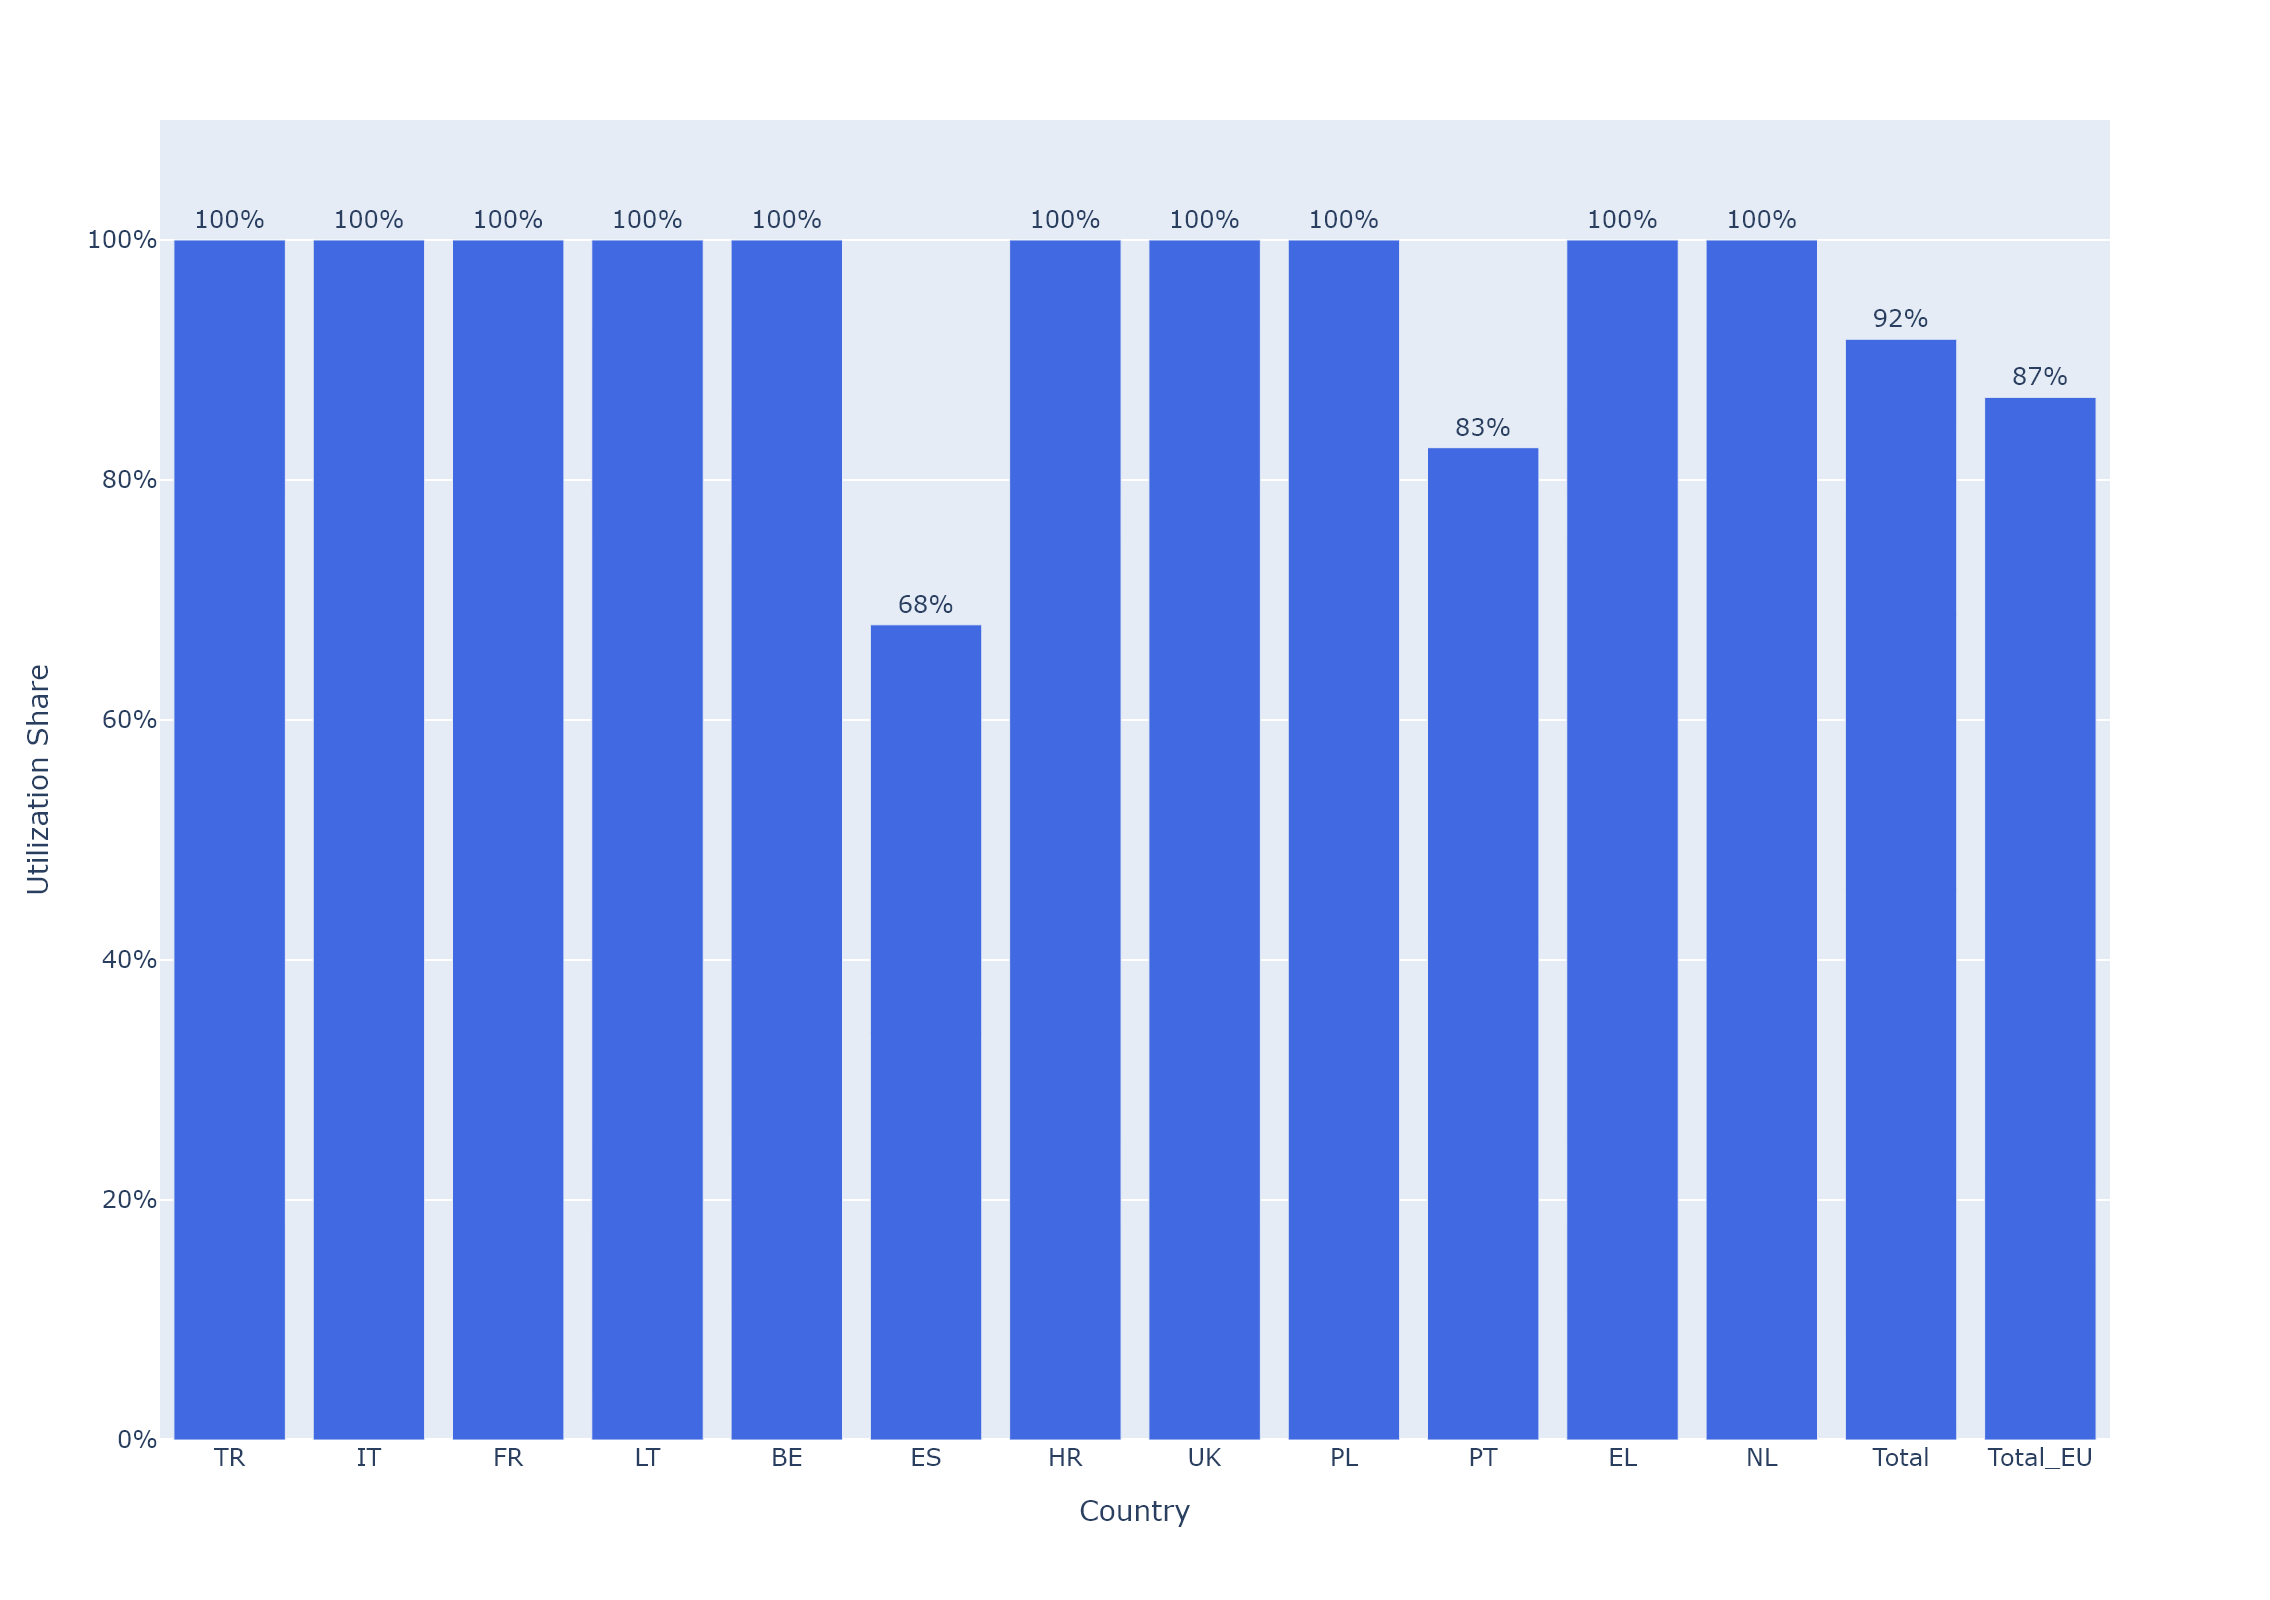
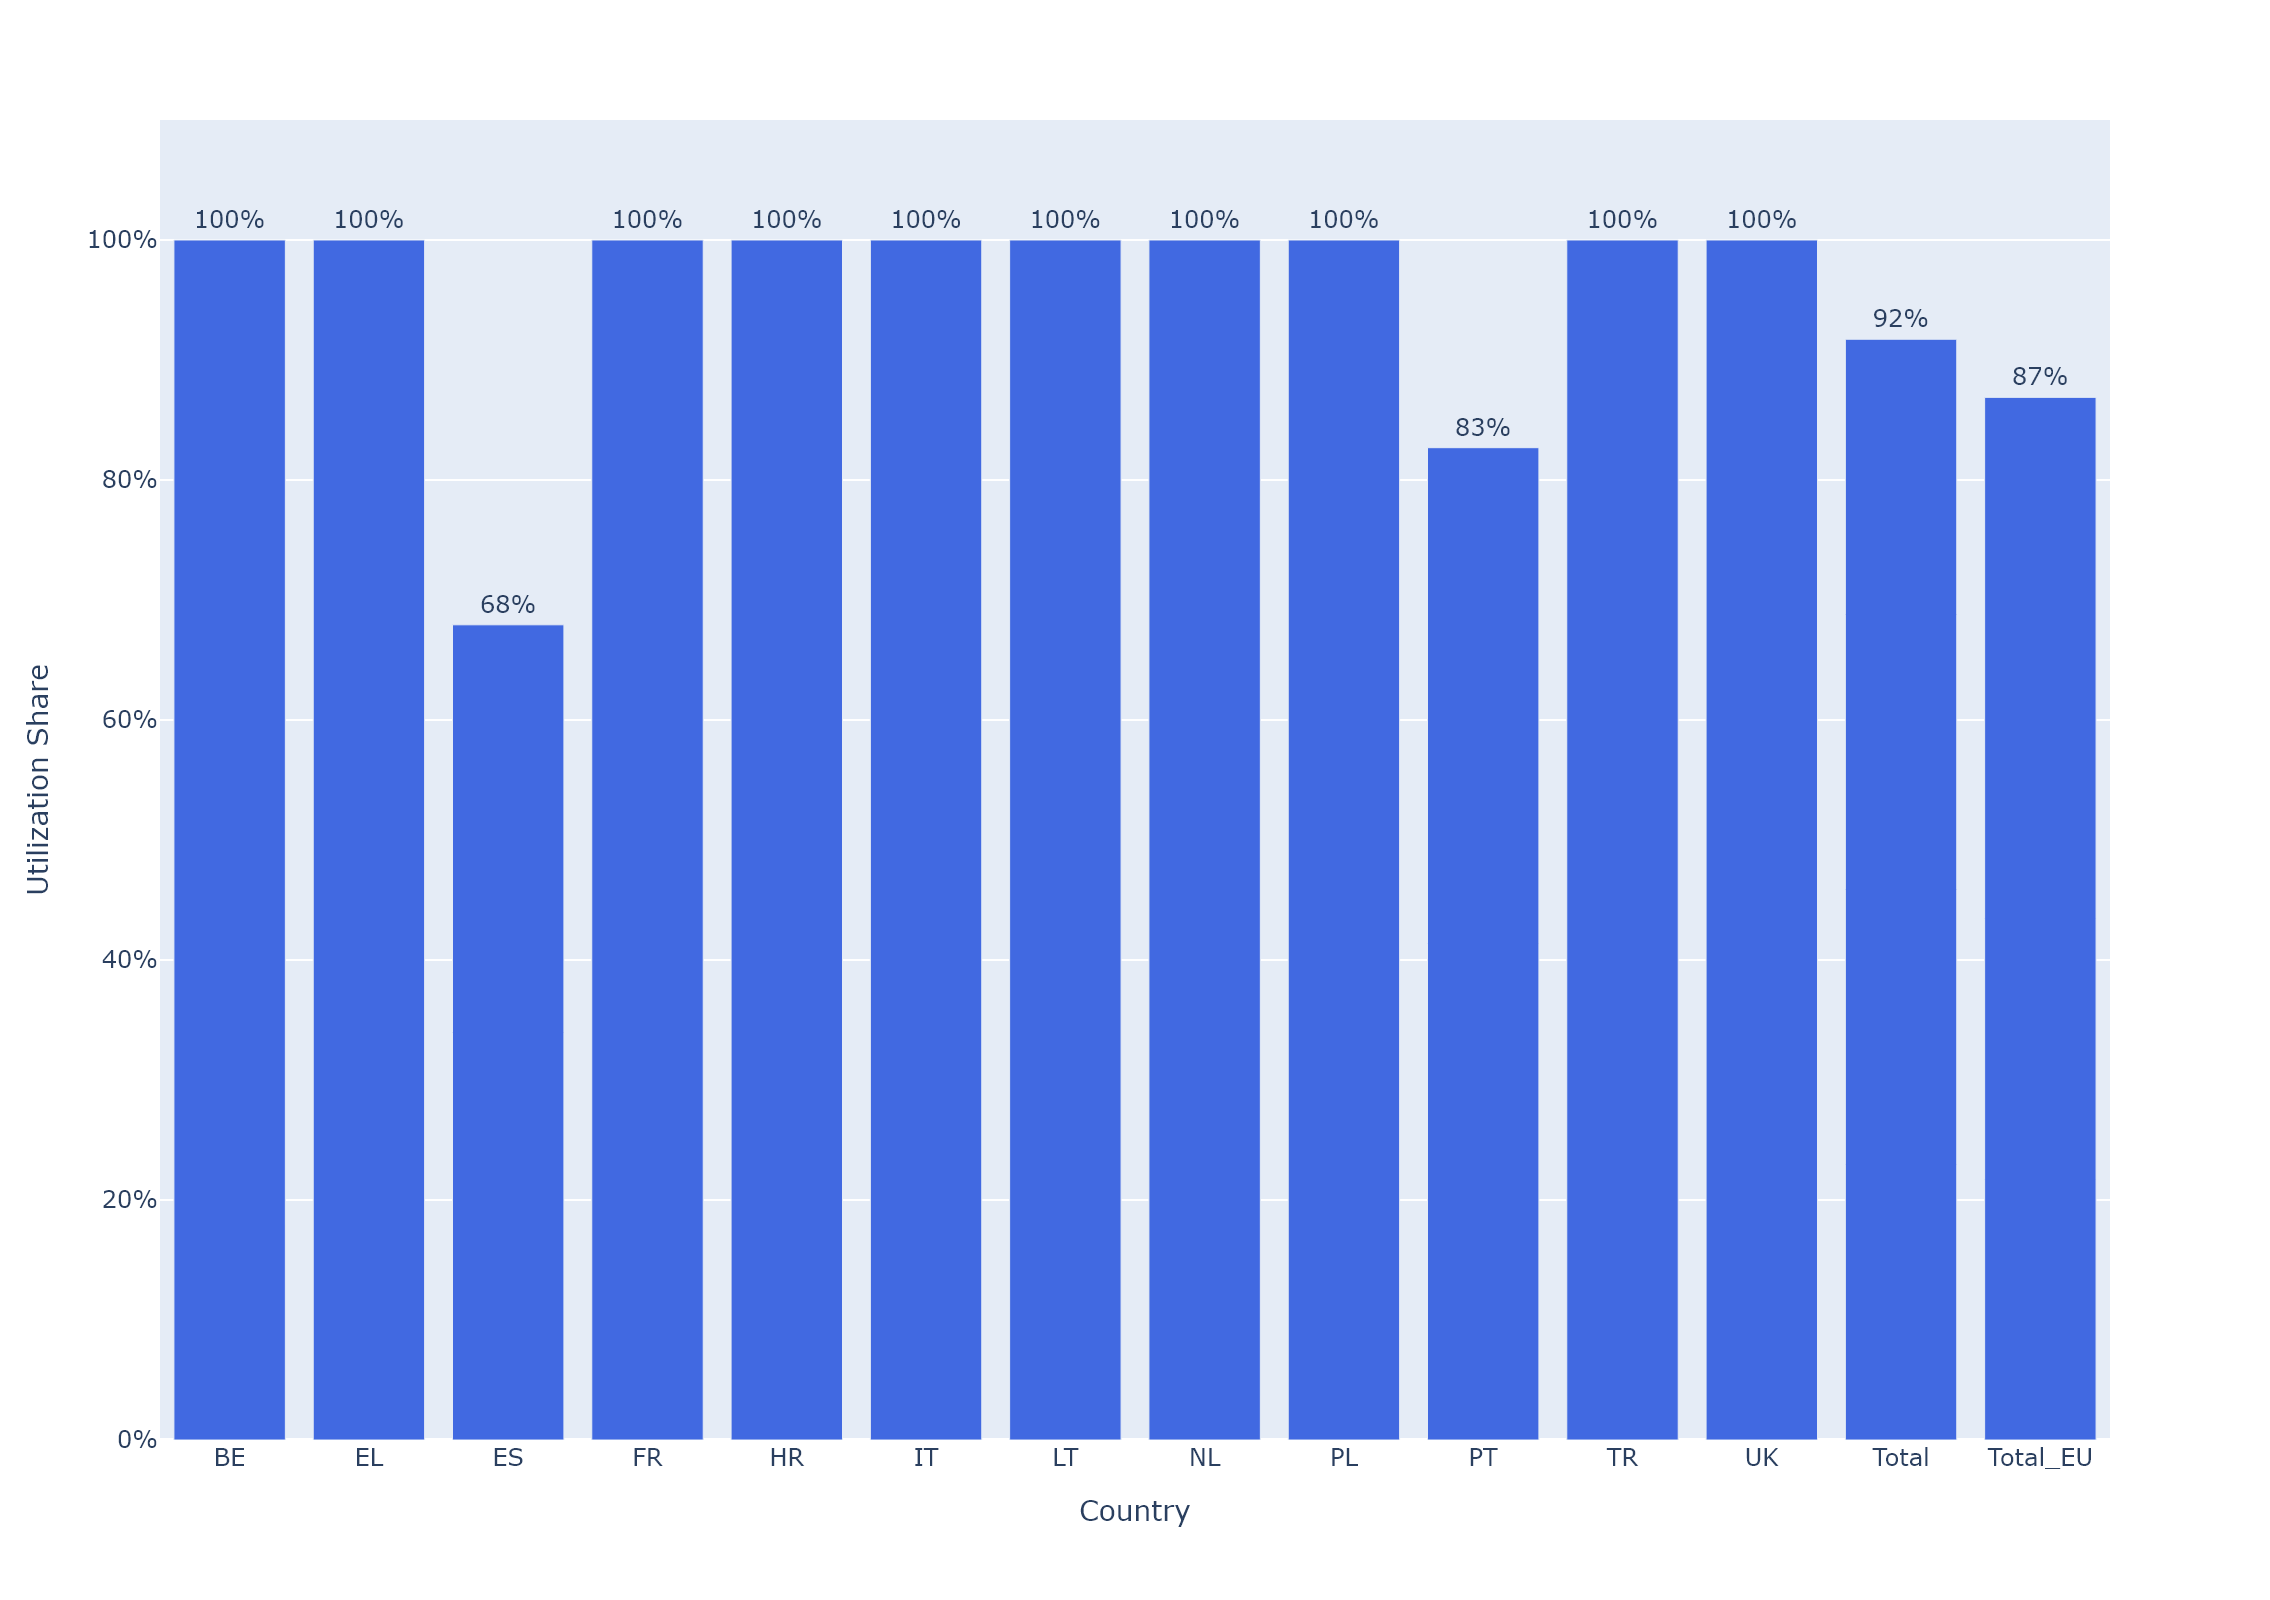
Update  for new bar charts

Changed region(s): [[0.37, 0.125, 0.4317, 0.4062], [0.185, 0.125, 0.2467, 0.4062]]

diff --git a/00_code_base/08_output_preparation/plot_visualization.py b/00_code_base/08_output_preparation/plot_visualization.py
@@ -17,11 +17,11 @@ base_path =r"C:\Users\flv.eco\OneDrive - CBS - Copenhagen Business School\Docume
 
 # Import this for save funcroin to work
 # pip install kaleido==0.1.0post1
-save_flow_no_invest = False 
+save_flow_no_invest = True 
 file_name_no_invest = "outputs_IAEE_2025_run_2021"
 title_no_invest = "Cross-border NG flows in Stated Policies Scenario in 2035"
 
-save_flow_invest = False
+save_flow_invest = True
 file_name_invest = "outputs_IAEE_2025_run_2024_inv"
 title_invest = "Cross-border NG flows with investment in 2024"
 
